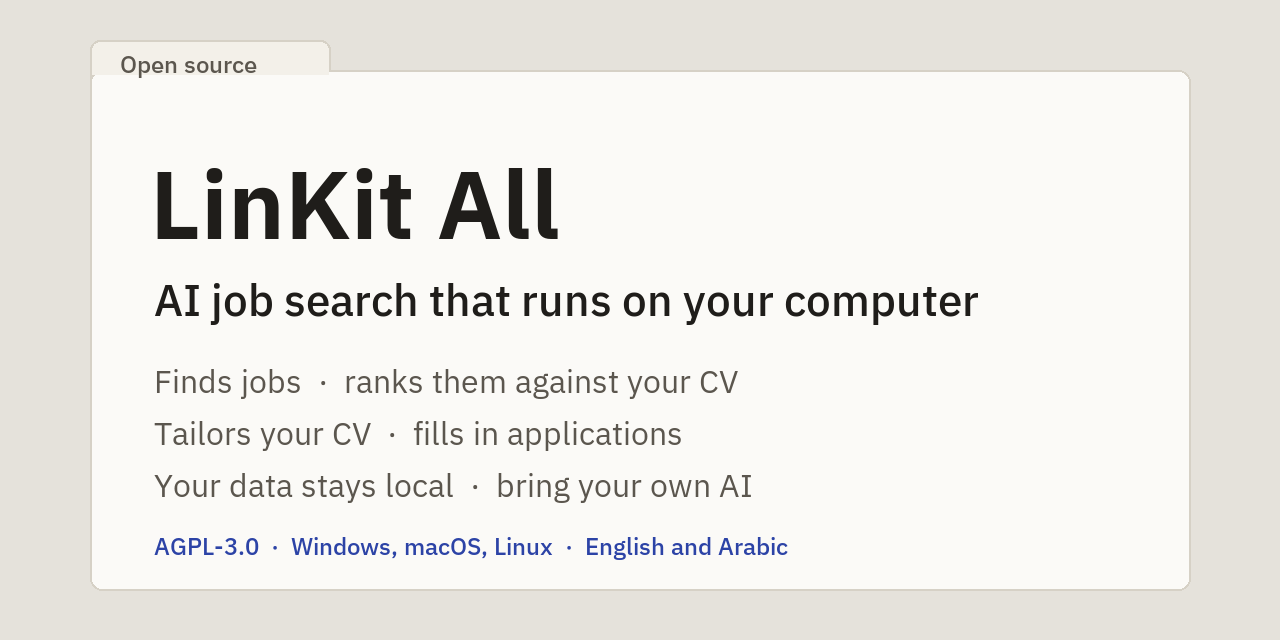
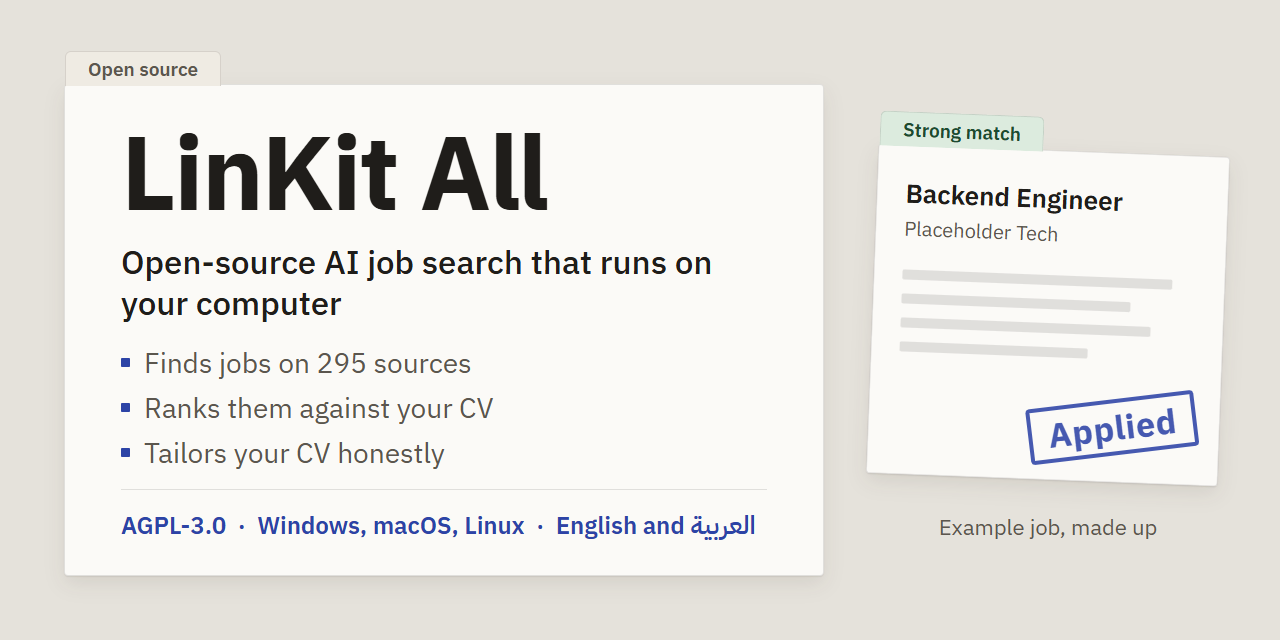
New social preview image and a less formal Arabic launch post
The social card follows the app's paper-desk look, uses only true
claims and is rebuilt from scripts/social_card.html with
scripts/make_social_card.py. The Arabic post reads as a developer
talking, not a press release, and two of its claims are now exact.

Changed region(s): [[0.0312, 0.0938, 0.9688, 0.9375]]

diff --git a/scripts/social_card.html b/scripts/social_card.html
@@ -1,0 +1,37 @@
+<!doctype html>
+<meta charset="utf-8">
+<!-- Source of docs/assets/social.png (1280x640). Render: uv run --no-sync python scripts/make_social_card.py -->
+<style>
+@font-face{font-family:Plex;font-weight:100 700;src:url(../frontend/node_modules/@fontsource-variable/ibm-plex-sans/files/ibm-plex-sans-latin-wght-normal.woff2)}
+@font-face{font-family:PlexAr;font-weight:600;src:url(../frontend/node_modules/@fontsource/ibm-plex-sans-arabic/files/ibm-plex-sans-arabic-arabic-600-normal.woff2)}
+:root{--desk:#e5e2db;--folder:#efebe3;--paper:#fbfaf7;--ink:#1f1d1a;--ink-2:#5b564e;--line:rgb(31 29 26/.12);--stamp:#2c43a6;--ok:#dcebde;--ok-ink:#1e4a2f;
+--shadow:0 1px 1px rgb(40 34 22/.08),0 8px 20px rgb(40 34 22/.09)}
+*{box-sizing:border-box;margin:0}
+body{width:1280px;height:640px;overflow:hidden;background:var(--desk);font-family:Plex,PlexAr,sans-serif;color:var(--ink);position:relative}
+.tab{position:absolute;top:-34px;left:0;height:35px;padding:0 22px;display:flex;align-items:center;font-size:19px;font-weight:600;color:var(--ink-2);background:var(--folder);border:1px solid var(--line);border-bottom:0;border-radius:6px 6px 0 0}
+.sheet{position:absolute;background:var(--paper);border:1px solid var(--line);border-radius:4px;box-shadow:var(--shadow)}
+.main{left:64px;top:84px;width:760px;height:492px;padding:34px 56px}
+h1{font-size:104px;font-weight:700;letter-spacing:-.02em;line-height:1}
+.line{margin-top:18px;font-size:33px;font-weight:500;line-height:1.25;max-width:640px}
+ul{list-style:none;padding:0;margin-top:20px;display:grid;gap:8px;font-size:28px;color:var(--ink-2)}
+li{display:flex;gap:14px;align-items:center}
+li:before{content:"";width:9px;height:9px;background:var(--stamp);border-radius:1px}
+.foot{position:absolute;left:56px;right:56px;bottom:30px;padding-top:16px;border-top:1px solid var(--line);font-size:24px;font-weight:600;color:var(--stamp)}
+.ar{font-family:PlexAr;font-size:26px}
+.job{left:872px;top:150px;width:352px;height:330px;padding:32px 28px;transform:rotate(2.2deg)}
+.job .t{font-size:26px;font-weight:600;line-height:1.2}
+.job .c{margin-top:6px;font-size:20px;color:var(--ink-2)}
+.bar{height:10px;border-radius:2px;background:var(--line);margin-top:14px}
+.stamp{position:absolute;right:22px;bottom:26px;transform:rotate(-9deg);border:4px solid var(--stamp);color:var(--stamp);border-radius:4px;padding:2px 16px;font-size:34px;font-weight:700;letter-spacing:.02em;opacity:.88}
+.note{position:absolute;left:872px;top:512px;width:352px;font-size:22px;color:var(--ink-2);text-align:center}
+</style>
+<div class="sheet main"><div class="tab">Open source</div>
+<h1>LinKit All</h1>
+<p class="line">Open-source AI job search that runs on your computer</p>
+<ul><li>Finds jobs on 295 sources</li><li>Ranks them against your CV</li><li>Tailors your CV honestly</li></ul>
+<div class="foot">AGPL-3.0 &nbsp;·&nbsp; Windows, macOS, Linux &nbsp;·&nbsp; English and <span class="ar">العربية</span></div></div>
+<div class="sheet job"><div class="tab" style="background:var(--ok);color:var(--ok-ink)">Strong match</div>
+<div class="t">Backend Engineer</div><div class="c">Placeholder Tech</div>
+<div class="bar" style="margin-top:28px;width:92%"></div><div class="bar" style="width:78%"></div><div class="bar" style="width:85%"></div><div class="bar" style="width:64%"></div>
+<div class="stamp">Applied</div></div>
+<div class="note">Example job, made up</div>

diff --git a/scripts/make_social_card.py b/scripts/make_social_card.py
@@ -1,0 +1,29 @@
+"""Render scripts/social_card.html to docs/assets/social.png (1280x640)."""
+
+from pathlib import Path
+
+from playwright.sync_api import sync_playwright
+
+from linkit_all.core.tools import browser_path
+
+HERE = Path(__file__).parent
+OUT = HERE.parent / "docs" / "assets" / "social.png"
+
+FONTS = HERE.parent / "frontend" / "node_modules"
+if not all(
+    (FONTS / f).is_file()
+    for f in (
+        "@fontsource-variable/ibm-plex-sans/files/ibm-plex-sans-latin-wght-normal.woff2",
+        "@fontsource/ibm-plex-sans-arabic/files/ibm-plex-sans-arabic-arabic-600-normal.woff2",
+    )
+):
+    raise SystemExit("Fonts come from frontend/node_modules: run npm ci in frontend first.")
+
+with sync_playwright() as pw:
+    browser = pw.chromium.launch(executable_path=browser_path(), headless=True)
+    page = browser.new_page(viewport={"width": 1280, "height": 640})
+    page.goto((HERE / "social_card.html").as_uri())
+    page.evaluate("document.fonts.ready")
+    page.screenshot(path=OUT)
+    browser.close()
+print(OUT, OUT.stat().st_size, "bytes")

diff --git a/docs/launch/arabic-post.md b/docs/launch/arabic-post.md
@@ -1,31 +1,27 @@
 # منشور الإطلاق بالعربية
 
-يحتاج إلى مراجعة من متحدث أصلي قبل النشر.
-
 ---
 
-أطلقت اليوم **LinKit All**، أداة مفتوحة المصدر ومجانية للبحث عن وظائف والتقديم عليها، تعمل
-بالكامل على جهازك.
+أهلًا بالجميع،
 
-ماذا تفعل؟
+بنيت أداة تساعدك في البحث عن وظائف والتقديم عليها، وسميتها **LinKit All**. هي مجانية ومفتوحة المصدر، وتعمل على جهازك أنت.
 
-- تجمع الوظائف من أكثر من 100 نظام توظيف (Greenhouse وLever وWorkday وغيرها)، ومن LinkedIn
-  وIndeed، ومن مواقع المنطقة مثل Wuzzuf وBayt وفرصنا، ومن صفحات الوظائف في مواقع الشركات.
-- ترتّبها حسب ملاءمتها لسيرتك الذاتية بنموذج يعمل على جهازك، وتنبّهك إلى الإعلانات الوهمية
-  والاحتيالية.
-- تعدّل كلمات قليلة في سيرتك الذاتية لتناسب كل وظيفة، دون أن تضيف خبرة أو تاريخًا أو رقمًا
-  لم تكتبه، ودون أن تغيّر التنسيق.
-- تملأ نماذج التقديم في متصفحك، وتبدأ في وضع التدريب الذي لا يضغط «إرسال» أبدًا.
+ماذا تفعل؟ ببساطة:
 
-أنت تختار الذكاء الاصطناعي: اشتراك ChatGPT أو Claude، أو مفتاح API، أو نموذج محلي مثل
-Ollama، وعندها لا تخرج سيرتك الذاتية من جهازك. أسئلة التأشيرة والراتب والبيانات الشخصية الحساسة لا تُرسل إلى
-الذكاء الاصطناعي أبدًا.
+- تجمع لك الوظائف من أكثر من 100 نظام توظيف (Greenhouse وLever وWorkday وغيرها)، ومن LinkedIn وIndeed، ومن مواقع المنطقة مثل Wuzzuf وBayt وفرصنا، ومن صفحات الوظائف في مواقع الشركات.
+- ترتّبها حسب قربها من سيرتك الذاتية، بنموذج يعمل على جهازك. وتنبّهك إذا كان الإعلان وهميًا أو احتياليًا.
+- تغيّر كلمات قليلة في سيرتك لكل وظيفة. لا تضيف خبرة ولا تاريخًا ولا رقمًا لم تكتبه أنت، ولا تلمس التنسيق.
+- تملأ نماذج التقديم في متصفحك. وتبدأ في وضع التدريب، وهذا الوضع لا يضغط «إرسال» أبدًا.
+
+الذكاء الاصطناعي من اختيارك: اشتراك ChatGPT أو Claude، أو مفتاح API، أو نموذج محلي مثل Ollama. ومع النموذج المحلي لا تُرسل سيرتك إلى أي ذكاء اصطناعي خارج جهازك. وأسئلة التأشيرة والراتب والمعلومات الشخصية الحساسة لا يجيب عنها الذكاء الاصطناعي أبدًا.
 
 الواجهة بالعربية والإنجليزية، وتعمل على Windows وmacOS وLinux.
 
 للتثبيت:
 `uv tool install linkit-all` ثم `linkit`
 
-المشروع: https://github.com/silentco2/LinKit-All
+الرابط: https://github.com/silentco2/LinKit-All
 
-ما زالت في بدايتها، ويسعدني أن أسمع ملاحظاتكم وما لا يعمل معكم.
+الأداة ما زالت في بدايتها. جرّبوها وقولوا لي رأيكم، وإذا لم يعمل معكم شيء اكتبوه لي، يهمني أن أعرفه.
+
+شكرًا لكم.

diff --git a/docs/launch/README.md b/docs/launch/README.md
@@ -25,5 +25,5 @@ Before posting:
 - **Website:** https://silentco2.github.io/LinKit-All/
 - **Topics:** `job-search`, `auto-apply`, `job-application`, `resume`, `cv`, `ai-agent`,
   `llm`, `ollama`, `playwright`, `fastapi`, `angular`, `privacy`, `self-hosted`, `arabic`
-- **Social preview:** upload `docs/assets/social.png` (1280 × 640).
+- **Social preview:** upload `docs/assets/social.png` (1280 × 640; regenerate with `uv run --no-sync python scripts/make_social_card.py`).
 - **Pages:** Source "GitHub Actions" (the `Docs` workflow deploys on every push to `main`).
